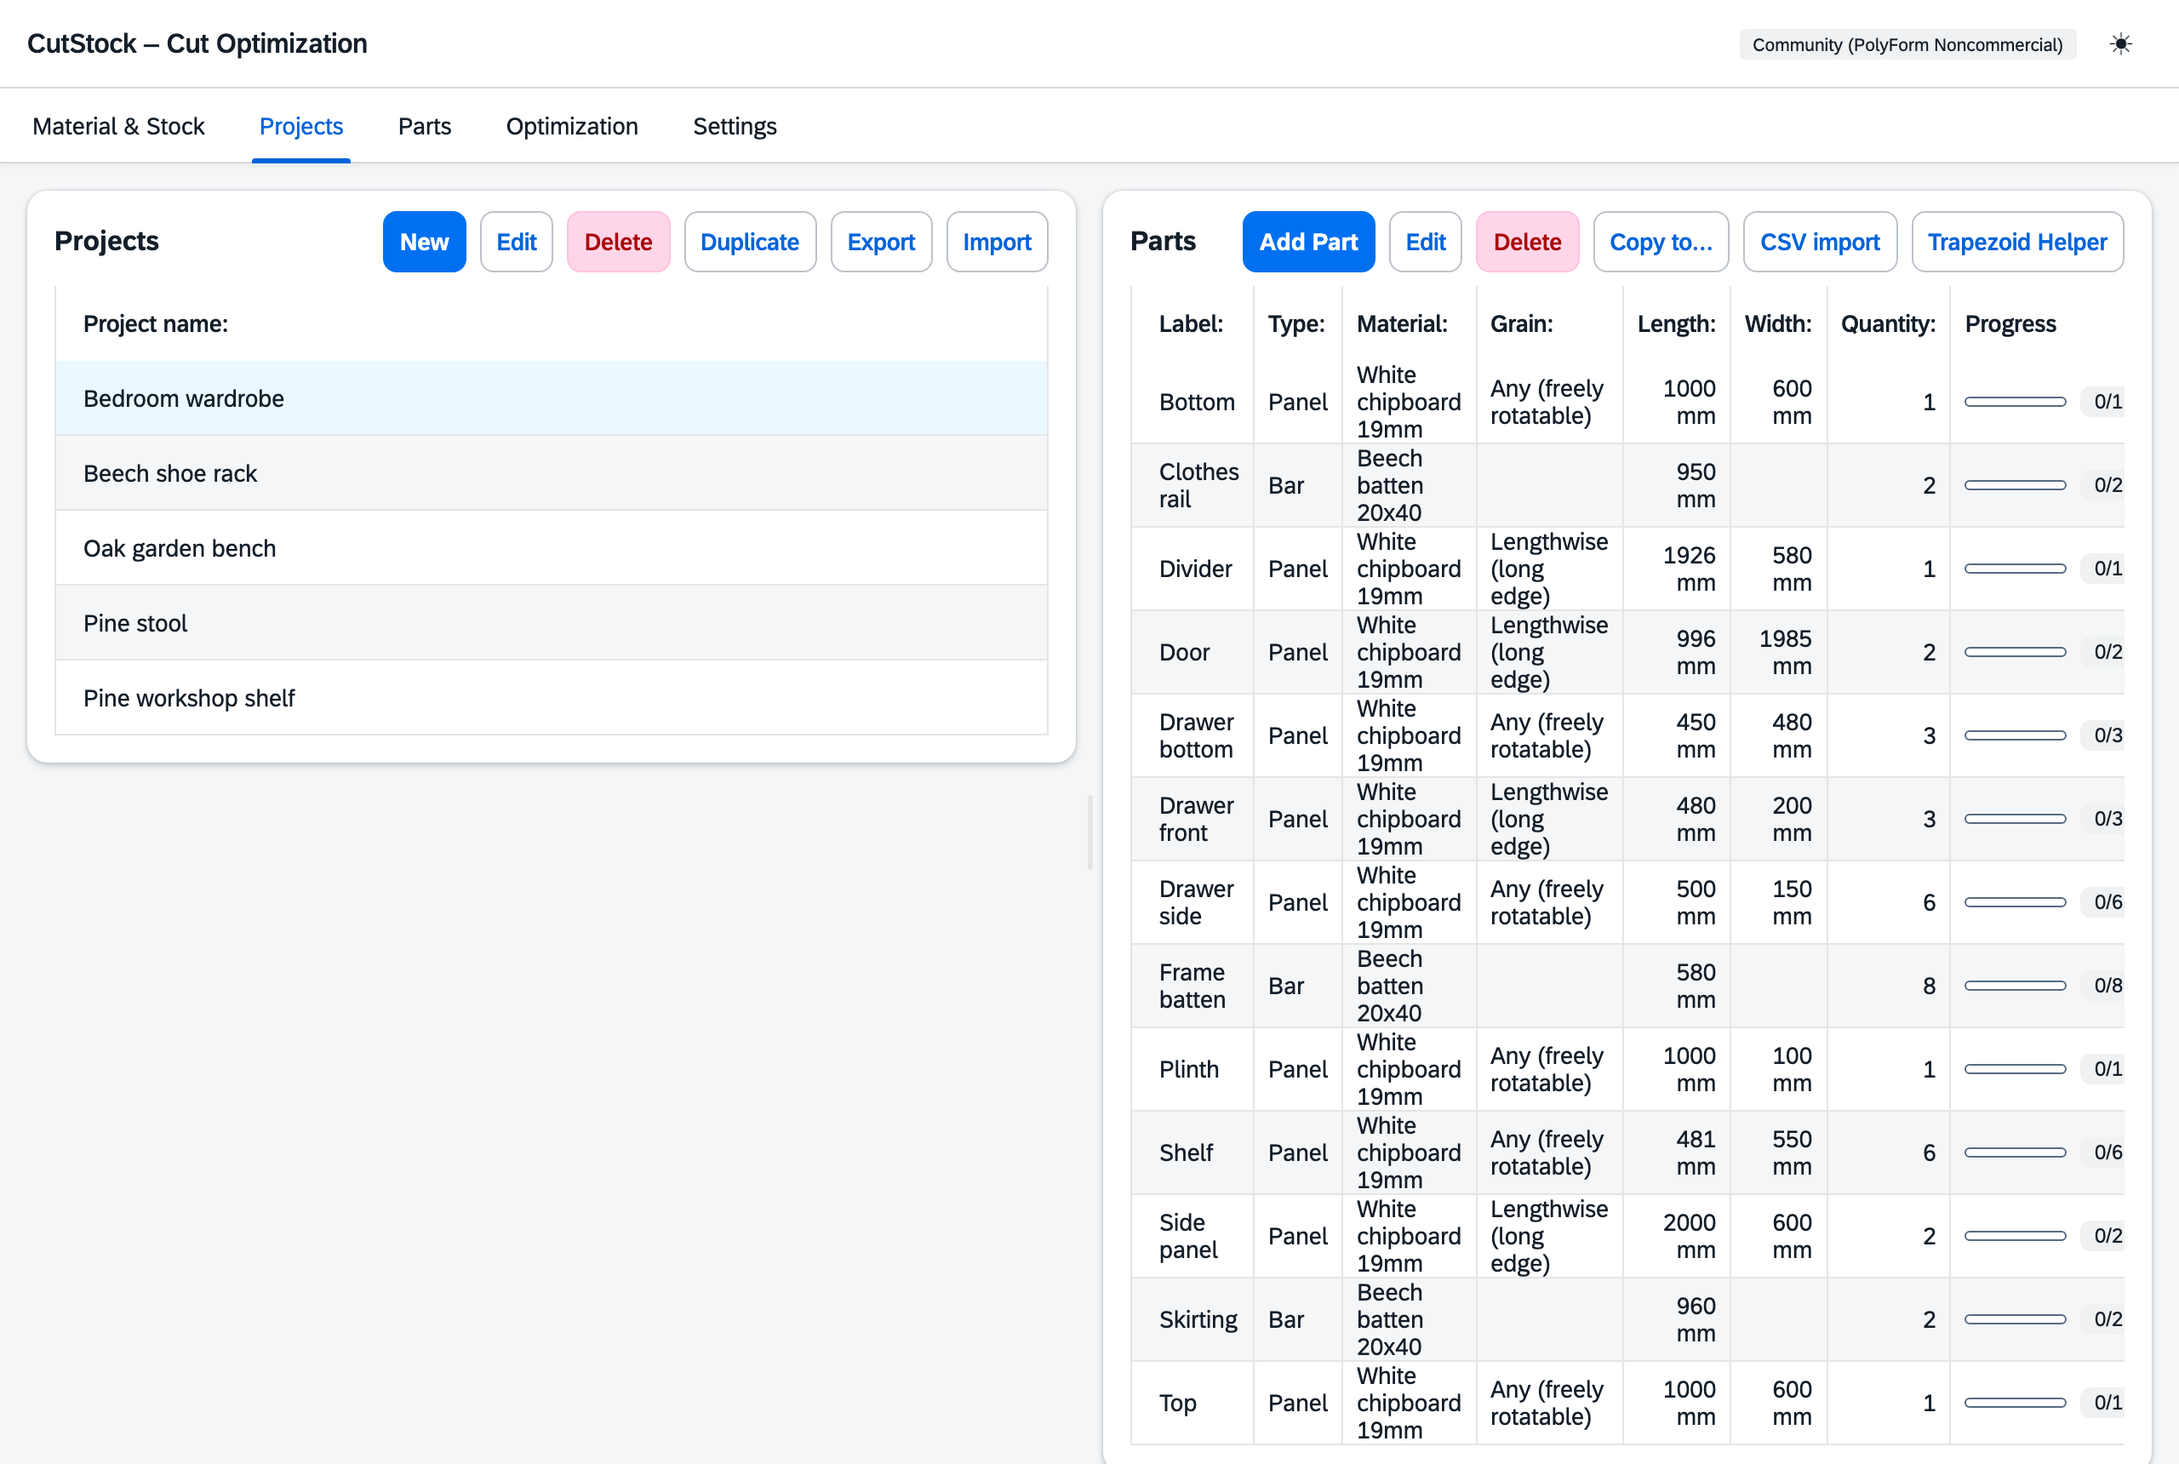
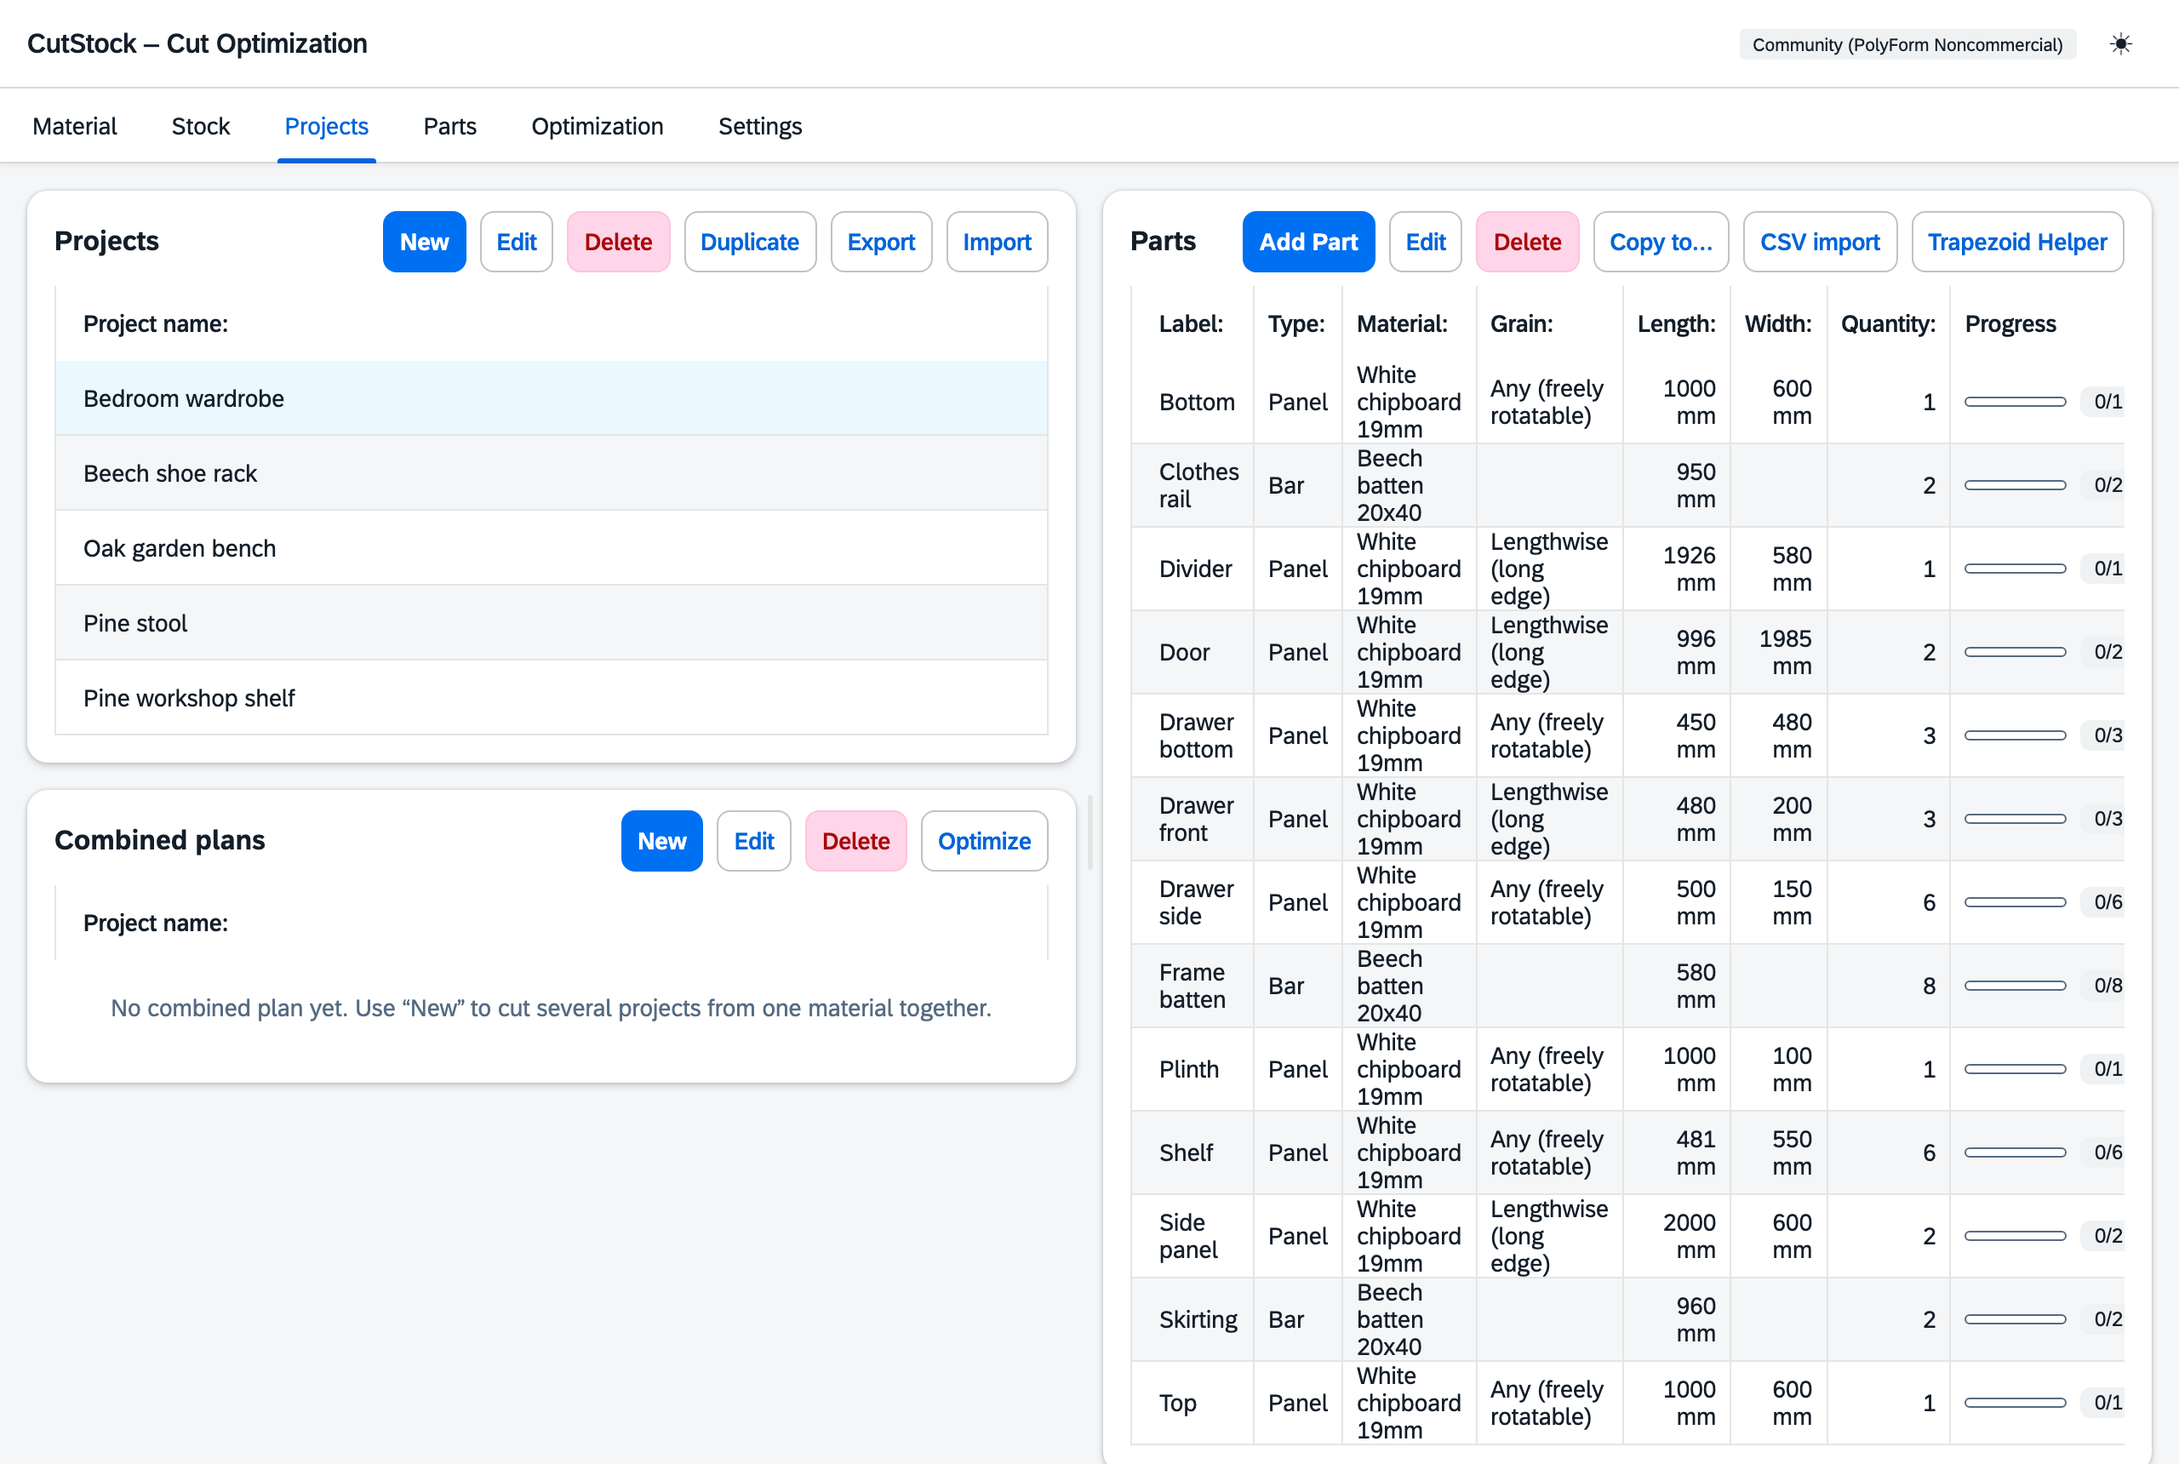
Doku: Sammelpläne im Reiter Projekte
- Handbuch DE/EN: Kasten "Sammelpläne" (Neu, Bearbeiten, Mitglieder,
  Optimieren, Löschen ohne Verlust), graue ausgelagerte Teile, 🔗 an
  Mitglieds-Projekten; Verweis aus der Optimierung
- REST-API DE/EN: ?art= an /api/projects, POST /api/sammel,
  PUT /api/sammel/{material}/members, Löschen von Sammelplänen,
  Abschnitt "Sammelpläne" mit Fehlercodes
- Screenshots Projekte und Sammelplan im Reiter Projekte (DE/EN)

diff --git a/docs/make_screenshots.py b/docs/make_screenshots.py
@@ -411,6 +411,18 @@ def shoot(ids: dict):
         page.select_option("#opt-mode", "project")
         page.wait_for_timeout(400)
 
+        # 7b2) Reiter Projekte: Sammelplan ausgewählt (Mitglieder, Teile nur lesend)
+        page.set_viewport_size({"width": 1280, "height": 860})
+        page.click('.tab-btn[data-tab="projects"]')
+        page.wait_for_selector("#sammel-list tbody tr[data-id]")
+        page.click("#sammel-list tbody tr[data-id]")
+        page.wait_for_selector("#parts-table tr.sammel-group")
+        page.wait_for_timeout(300)
+        page.screenshot(path=shot("sammelplaene"))
+        page.set_viewport_size({"width": 1280, "height": 1000})
+        page.click('.tab-btn[data-tab="optimization"]')
+        page.wait_for_timeout(400)
+
         # 7c) Reiter Teile: Teile aller Projekte, zwei Hocker-Teile angehakt
         # (Schnittliste / Als Füllteile), Spalte "Regal" mit Vorrat
         page.set_viewport_size({"width": 1280, "height": 860})

diff --git a/docs/handbuch/api.md b/docs/handbuch/api.md
@@ -64,11 +64,11 @@ Anfragen von der eigenen Web-Oberfläche (Same-Origin) und von localhost sind im
 | PUT | `/api/blades/{id}` | Sägeblatt aktualisieren |
 | DELETE | `/api/blades/{id}` | Sägeblatt löschen |
 | **Projekte** | | |
-| GET | `/api/projects` | Projekte auflisten |
+| GET | `/api/projects?art=` | Projekte auflisten; `art=sammel` nur Sammelpläne, `art=alle` beides (ohne: nur Projekte) |
 | GET | `/api/projects/{id}` | Projekt abrufen |
 | POST | `/api/projects` | Projekt anlegen |
 | PUT | `/api/projects/{id}` | Projekt aktualisieren (Name, Anzahl Exemplare) |
-| DELETE | `/api/projects/{id}` | Projekt löschen |
+| DELETE | `/api/projects/{id}` | Projekt oder Sammelplan löschen (Gesägtes bleibt in den Projekten) |
 | POST | `/api/projects/{id}/clone` | Projekt kopieren |
 | POST | `/api/projects/{id}/copy-parts` | Teile in ein Projekt kopieren |
 | POST | `/api/projects/{id}/restart` | Projekt neu starten (Fortschritt 0, Pläne weg, Lager bleibt) |
@@ -86,6 +86,8 @@ Anfragen von der eigenen Web-Oberfläche (Same-Origin) und von localhost sind im
 | DELETE | `/api/plans/{id}` | Plan verwerfen (gibt reservierte Stücke frei) |
 | GET | `/api/projects/{id}/fill-candidates/{material_id}` | Mögliche Füllteile aus anderen Projekten |
 | GET | `/api/sammel/{material_id}` | Sammelplan-Status und mögliche Projekte |
+| POST | `/api/sammel` | Sammelplan anlegen (Material und Projekte, noch ohne Schnittplan) |
+| PUT | `/api/sammel/{id oder Kuerzel}/members` | Mitglieder des Sammelplans eines Materials ersetzen |
 | POST | `/api/sammel/optimize` | Sammelplan anlegen/ersetzen und berechnen |
 | GET | `/api/parts` | Teile aller Projekte (Reiter "Teile") |
 | POST | `/api/cut-lists` | Schnittliste aus einzelnen Teilen anlegen |
@@ -183,3 +185,32 @@ DELETE /api/waste?material=AP40
 ```
 
 Lagerjournal: `GET /api/journal?material=AP40&seit=1767225600&limit=100` -- je Eintrag `zeit` (Unix-Zeit), `art` (`zugang`, `korrektur_ab`, `entnahme`, `plan_verbrauch`, `plan_zurueck`, `rest_ein`, `rest_zurueck`, `abfall_ein`, `abfall_zurueck`, `abfall_ab`, `abfall_leer`, `material_lagerort`, `lagerort_neu`, `lagerort_umbenannt`, `lagerort_geloescht`), `code`, Masse, `anzahl`, `quelle` (`ui`/`api`), `notiz`.
+
+## Sammelpläne
+
+Ein Sammelplan ist ein Projekt mit `art: "sammel"`, `sammel_material_id` und `mitglieder`
+(Projekt-IDs); eigene Teile hat er nicht. `GET /api/projects` liefert ihn nur mit `?art=sammel`
+oder `?art=alle`, Mitglieds-Projekte nennen ihn unter `sammel` (`{material_id: Name}`).
+
+```json
+POST /api/sammel
+{"material": "AP40", "projekte": ["Werkbank", "12"]}
+
+→ 201 {"id": 31, "name": "Sammelplan Alu Profil 40x40", "art": "sammel", "sammel_material_id": 2, "mitglieder": [5, 12], ...}
+```
+
+Material per ID oder Kürzel, Projekte per ID oder Namen, `name` optional. Gibt es für das
+Material schon einen, kommt `409 sammel_vorhanden` mit `sammel_id`; unbekannt sind
+`404 material_unbekannt` bzw. `projekt_unbekannt`. Berechnet wird mit `POST /api/sammel/optimize`.
+
+Mitglieder ändern (ein berechneter Plan gilt danach als `veraltet`):
+
+```json
+PUT /api/sammel/AP40/members
+{"projekte": ["Werkbank"]}
+```
+
+Umbenennen mit `PUT /api/projects/{id}` (die Anzahl bleibt 1), löschen mit
+`DELETE /api/projects/{id}`: Gesägtes zählt schon in den Mitglieds-Projekten (`gesaegt_anzahl`),
+der Rest wird wieder offen, reservierte Lagerstücke werden frei. Teile anlegen, kopieren oder
+duplizieren geht bei einem Sammelplan nicht (`400 sammel_ohne_teile`).

diff --git a/docs/manual/api.md b/docs/manual/api.md
@@ -64,11 +64,11 @@ Requests from the web UI (same-origin) and from localhost are always allowed wit
 | PUT | `/api/blades/{id}` | Update a blade |
 | DELETE | `/api/blades/{id}` | Delete a blade |
 | **Projects** | | |
-| GET | `/api/projects` | List projects |
+| GET | `/api/projects?art=` | List projects; `art=sammel` combined plans only, `art=alle` both (without: projects only) |
 | GET | `/api/projects/{id}` | Get a project |
 | POST | `/api/projects` | Create a project |
 | PUT | `/api/projects/{id}` | Update a project (name, number of copies) |
-| DELETE | `/api/projects/{id}` | Delete a project |
+| DELETE | `/api/projects/{id}` | Delete a project or combined plan (cut parts stay in the projects) |
 | POST | `/api/projects/{id}/clone` | Duplicate a project |
 | POST | `/api/projects/{id}/copy-parts` | Copy parts into a project |
 | POST | `/api/projects/{id}/restart` | Restart project (progress 0, plans removed, stock unchanged) |
@@ -86,6 +86,8 @@ Requests from the web UI (same-origin) and from localhost are always allowed wit
 | DELETE | `/api/plans/{id}` | Discard plan (releases reserved pieces) |
 | GET | `/api/projects/{id}/fill-candidates/{material_id}` | Possible filler parts from other projects |
 | GET | `/api/sammel/{material_id}` | Combined plan status and eligible projects |
+| POST | `/api/sammel` | Create a combined plan (material and projects, no cutting plan yet) |
+| PUT | `/api/sammel/{id or code}/members` | Replace the members of a material's combined plan |
 | POST | `/api/sammel/optimize` | Create/replace and compute the combined plan |
 | GET | `/api/parts` | Parts of all projects ("Parts" tab) |
 | POST | `/api/cut-lists` | Create a cut list from individual parts |
@@ -183,3 +185,33 @@ DELETE /api/waste?material=AP40
 ```
 
 Stock journal: `GET /api/journal?material=AP40&seit=1767225600&limit=100` -- each entry has `zeit` (Unix time), `art` (`zugang`, `korrektur_ab`, `entnahme`, `plan_verbrauch`, `plan_zurueck`, `rest_ein`, `rest_zurueck`, `abfall_ein`, `abfall_zurueck`, `abfall_ab`, `abfall_leer`, `material_lagerort`, `lagerort_neu`, `lagerort_umbenannt`, `lagerort_geloescht`), `code`, sizes, `anzahl`, `quelle` (`ui`/`api`), `notiz`.
+
+## Combined plans
+
+A combined plan is a project with `art: "sammel"`, `sammel_material_id` and `mitglieder`
+(member project IDs); it has no parts of its own. `GET /api/projects` only lists it with
+`?art=sammel` or `?art=alle`; member projects name it under `sammel` (`{material_id: name}`).
+
+```json
+POST /api/sammel
+{"material": "AP40", "projekte": ["Workbench", "12"]}
+
+→ 201 {"id": 31, "name": "Sammelplan Alu Profil 40x40", "art": "sammel", "sammel_material_id": 2, "mitglieder": [5, 12], ...}
+```
+
+Material by ID or code, projects by ID or name, `name` optional. If the material already has
+one, you get `409 sammel_vorhanden` with `sammel_id`; unknown references give
+`404 material_unbekannt` or `projekt_unbekannt`. The plan is calculated with
+`POST /api/sammel/optimize`.
+
+Change members (a calculated plan is then `veraltet`, i.e. outdated):
+
+```json
+PUT /api/sammel/AP40/members
+{"projekte": ["Workbench"]}
+```
+
+Rename with `PUT /api/projects/{id}` (the number of copies stays 1), delete with
+`DELETE /api/projects/{id}`: what has been cut already counts in the member projects
+(`gesaegt_anzahl`), the rest becomes open again and reserved stock pieces are released. Adding,
+copying or duplicating parts is not possible for a combined plan (`400 sammel_ohne_teile`).

diff --git a/docs/handbuch/3-projekte.md b/docs/handbuch/3-projekte.md
@@ -2,7 +2,7 @@
 
 [← Handbuch](README.md)
 
-Links die Projekte, rechts die Teile des gewählten Projekts.
+Links oben die Projekte, darunter die Sammelpläne, rechts die Teile des gewählten Eintrags.
 
 ![Projekte](../screenshot_projekte.png)
 
@@ -12,9 +12,8 @@ Links die Projekte, rechts die Teile des gewählten Projekts.
 - **Anzahl Exemplare**: Wird ein Projekt mehrfach gebaut, genügt die Anzahl am Projekt –
   alle Exemplare werden gemeinsam optimiert.
 - Import/Export als JSON, Teilelisten-Import aus CSV.
-- Ein Hinweis „Sammelplan“ markiert Projekte, die in einem gemeinsamen Plan stecken
-  (siehe [Optimierung](5-optimierung.md#sammelplan)); „Schnittliste“ markiert Listen aus dem
-  Reiter [Teile](4-teile.md).
+- Ein kleines 🔗 markiert Projekte, die in einem Sammelplan stecken (der Tooltip nennt ihn);
+  „Schnittliste“ markiert Listen aus dem Reiter [Teile](4-teile.md).
 
 ## Teile
 
@@ -23,3 +22,29 @@ Jedes Teil hat Label, Typ, Material, Maße, Stückzahl (je Exemplar) und Maserun
 
 Im Dialog „Teil bearbeiten“ lässt sich der **Regal-Vorrat** von Hand korrigieren
 („Im Regal“), etwa nach einer Inventur.
+
+Teile, deren Material in einem Sammelplan gesägt wird, sind **grau** und tragen den Hinweis
+„→ <Sammelplan>“; ein Klick darauf wählt den Sammelplan aus. Bearbeiten lassen sie sich trotzdem –
+ein schon berechneter Sammelplan gilt danach als veraltet.
+
+## Sammelpläne
+
+Ein Sammelplan sägt die Teile mehrerer Projekte aus **einem Material** gemeinsam – das spart
+oft ganze Stangen oder Platten. Je Material gibt es höchstens einen Sammelplan. Die Einträge im
+Kasten „Sammelpläne“ tragen ein 🔗 und das Etikett „Sammelplan“.
+
+![Sammelplan im Reiter Projekte](../screenshot_sammelplaene.png)
+
+- **Neu**: Material wählen, dann die Projekte mit offenen Teilen in diesem Material ankreuzen.
+  Hat das Material schon einen Sammelplan, wird dieser geöffnet. Der Name lautet
+  „Sammelplan <Material>“.
+- **Bearbeiten**: umbenennen.
+- **Ausgewählt** zeigt der rechte Kasten die Mitglieder mit Häkchen (dort ändern) und darunter
+  ihre Teile in diesem Material, nach Projekt gruppiert und nur zur Ansicht. Projektnamen sind
+  Links ins jeweilige Projekt; bearbeitet wird dort.
+- **Optimieren** springt in die [Optimierung](5-optimierung.md#sammelplan) (Material-Modus) mit
+  diesem Sammelplan.
+- **Löschen** wie ein Projekt, mit Warnung, wenn schon gesägt wurde. Nichts geht verloren:
+  Gesägte Teile bleiben in ihren Projekten als gesägt, der Rest wird wieder offen, reservierte
+  Lagerstücke werden frei. Danach lassen sich die Projekte einzeln optimieren oder neu
+  zusammenfassen.

diff --git a/docs/manual/3-projects.md b/docs/manual/3-projects.md
@@ -2,7 +2,7 @@
 
 [← Manual](README.md)
 
-On the left the projects, on the right the parts of the selected project.
+Top left the projects, below them the combined plans, on the right the parts of the selected entry.
 
 ![Projects](../screenshot_projekte_en.png)
 
@@ -12,9 +12,8 @@ On the left the projects, on the right the parts of the selected project.
 - **Number of copies**: if a project is built several times, set the number on the project –
   all copies are optimized together.
 - Import/export as JSON, import part lists from CSV.
-- A "Combined plan" badge marks projects that are part of a joint plan
-  (see [Optimization](5-optimization.md#combined-plan)); "Cut list" marks lists created in the
-  [Parts](4-parts.md) tab.
+- A small 🔗 marks projects that are part of a combined plan (the tooltip names it);
+  "Cut list" marks lists created in the [Parts](4-parts.md) tab.
 
 ## Parts
 
@@ -23,3 +22,28 @@ Every part has a label, type, material, dimensions, quantity (per copy) and grai
 
 In the "Edit part" dialog the **shelf stock** can be corrected by hand ("On the shelf"),
 e.g. after a stocktaking.
+
+Parts whose material is cut in a combined plan are **grey** and show "→ <combined plan>";
+clicking it selects the combined plan. They can still be edited – a combined plan that has
+already been calculated is then marked as outdated.
+
+## Combined plans
+
+A combined plan cuts the parts of several projects from **one material** together – this often
+saves whole bars or panels. There is at most one combined plan per material. The entries in the
+"Combined plans" box carry a 🔗 and the label "Combined plan".
+
+![Combined plan in the Projects tab](../screenshot_sammelplaene_en.png)
+
+- **New**: choose the material, then tick the projects with open parts in this material. If the
+  material already has a combined plan, that one is opened. It is named
+  "Sammelplan <material>".
+- **Edit**: rename.
+- **When selected**, the right box shows the members with checkboxes (change them there) and
+  below their parts in this material, grouped by project and read-only. Project names link to
+  the project; parts are edited there.
+- **Optimize** jumps to [Optimization](5-optimization.md#combined-plan) (material mode) with
+  this combined plan.
+- **Delete** like a project, with a warning if cutting has already started. Nothing is lost:
+  parts already cut stay cut in their projects, the rest becomes open again and reserved stock
+  pieces are released. Afterwards the projects can be optimized individually or combined anew.

diff --git a/docs/manual/5-optimization.md b/docs/manual/5-optimization.md
@@ -57,7 +57,9 @@ project and go onto their project's shelf once cut.
 
 If the same material is needed in several projects: "Optimize by: **Material (combined plan)**",
 choose the material, tick the projects. **Compare** shows the savings against separate plans.
-Every project gets its own color; ticked-off parts count in their project.
+Every project gets its own color; ticked-off parts count in their project. Creating,
+renaming, changing members and deleting also works in the [Projects](3-projects.md#combined-plans)
+tab, box "Combined plans".
 
 ![Combined plan](../screenshot_sammelplan_en.png)
 

diff --git a/docs/handbuch/5-optimierung.md b/docs/handbuch/5-optimierung.md
@@ -60,7 +60,8 @@ schraffiert, tragen ihr Herkunftsprojekt und kommen gesägt in den Regal-Vorrat 
 Wird dasselbe Material in mehreren Projekten gebraucht: „Optimieren nach: **Material
 (Sammelplan)**“, Material wählen, Projekte anhaken. **Vergleichen** zeigt die Ersparnis gegenüber
 getrennten Plänen. Jedes Projekt bekommt eine eigene Farbe; abgehakte Teile zählen in ihrem
-Projekt.
+Projekt. Anlegen, umbenennen, Mitglieder ändern und löschen geht auch im Reiter
+[Projekte](3-projekte.md#sammelpläne), Kasten „Sammelpläne“.
 
 ![Sammelplan](../screenshot_sammelplan.png)
 
